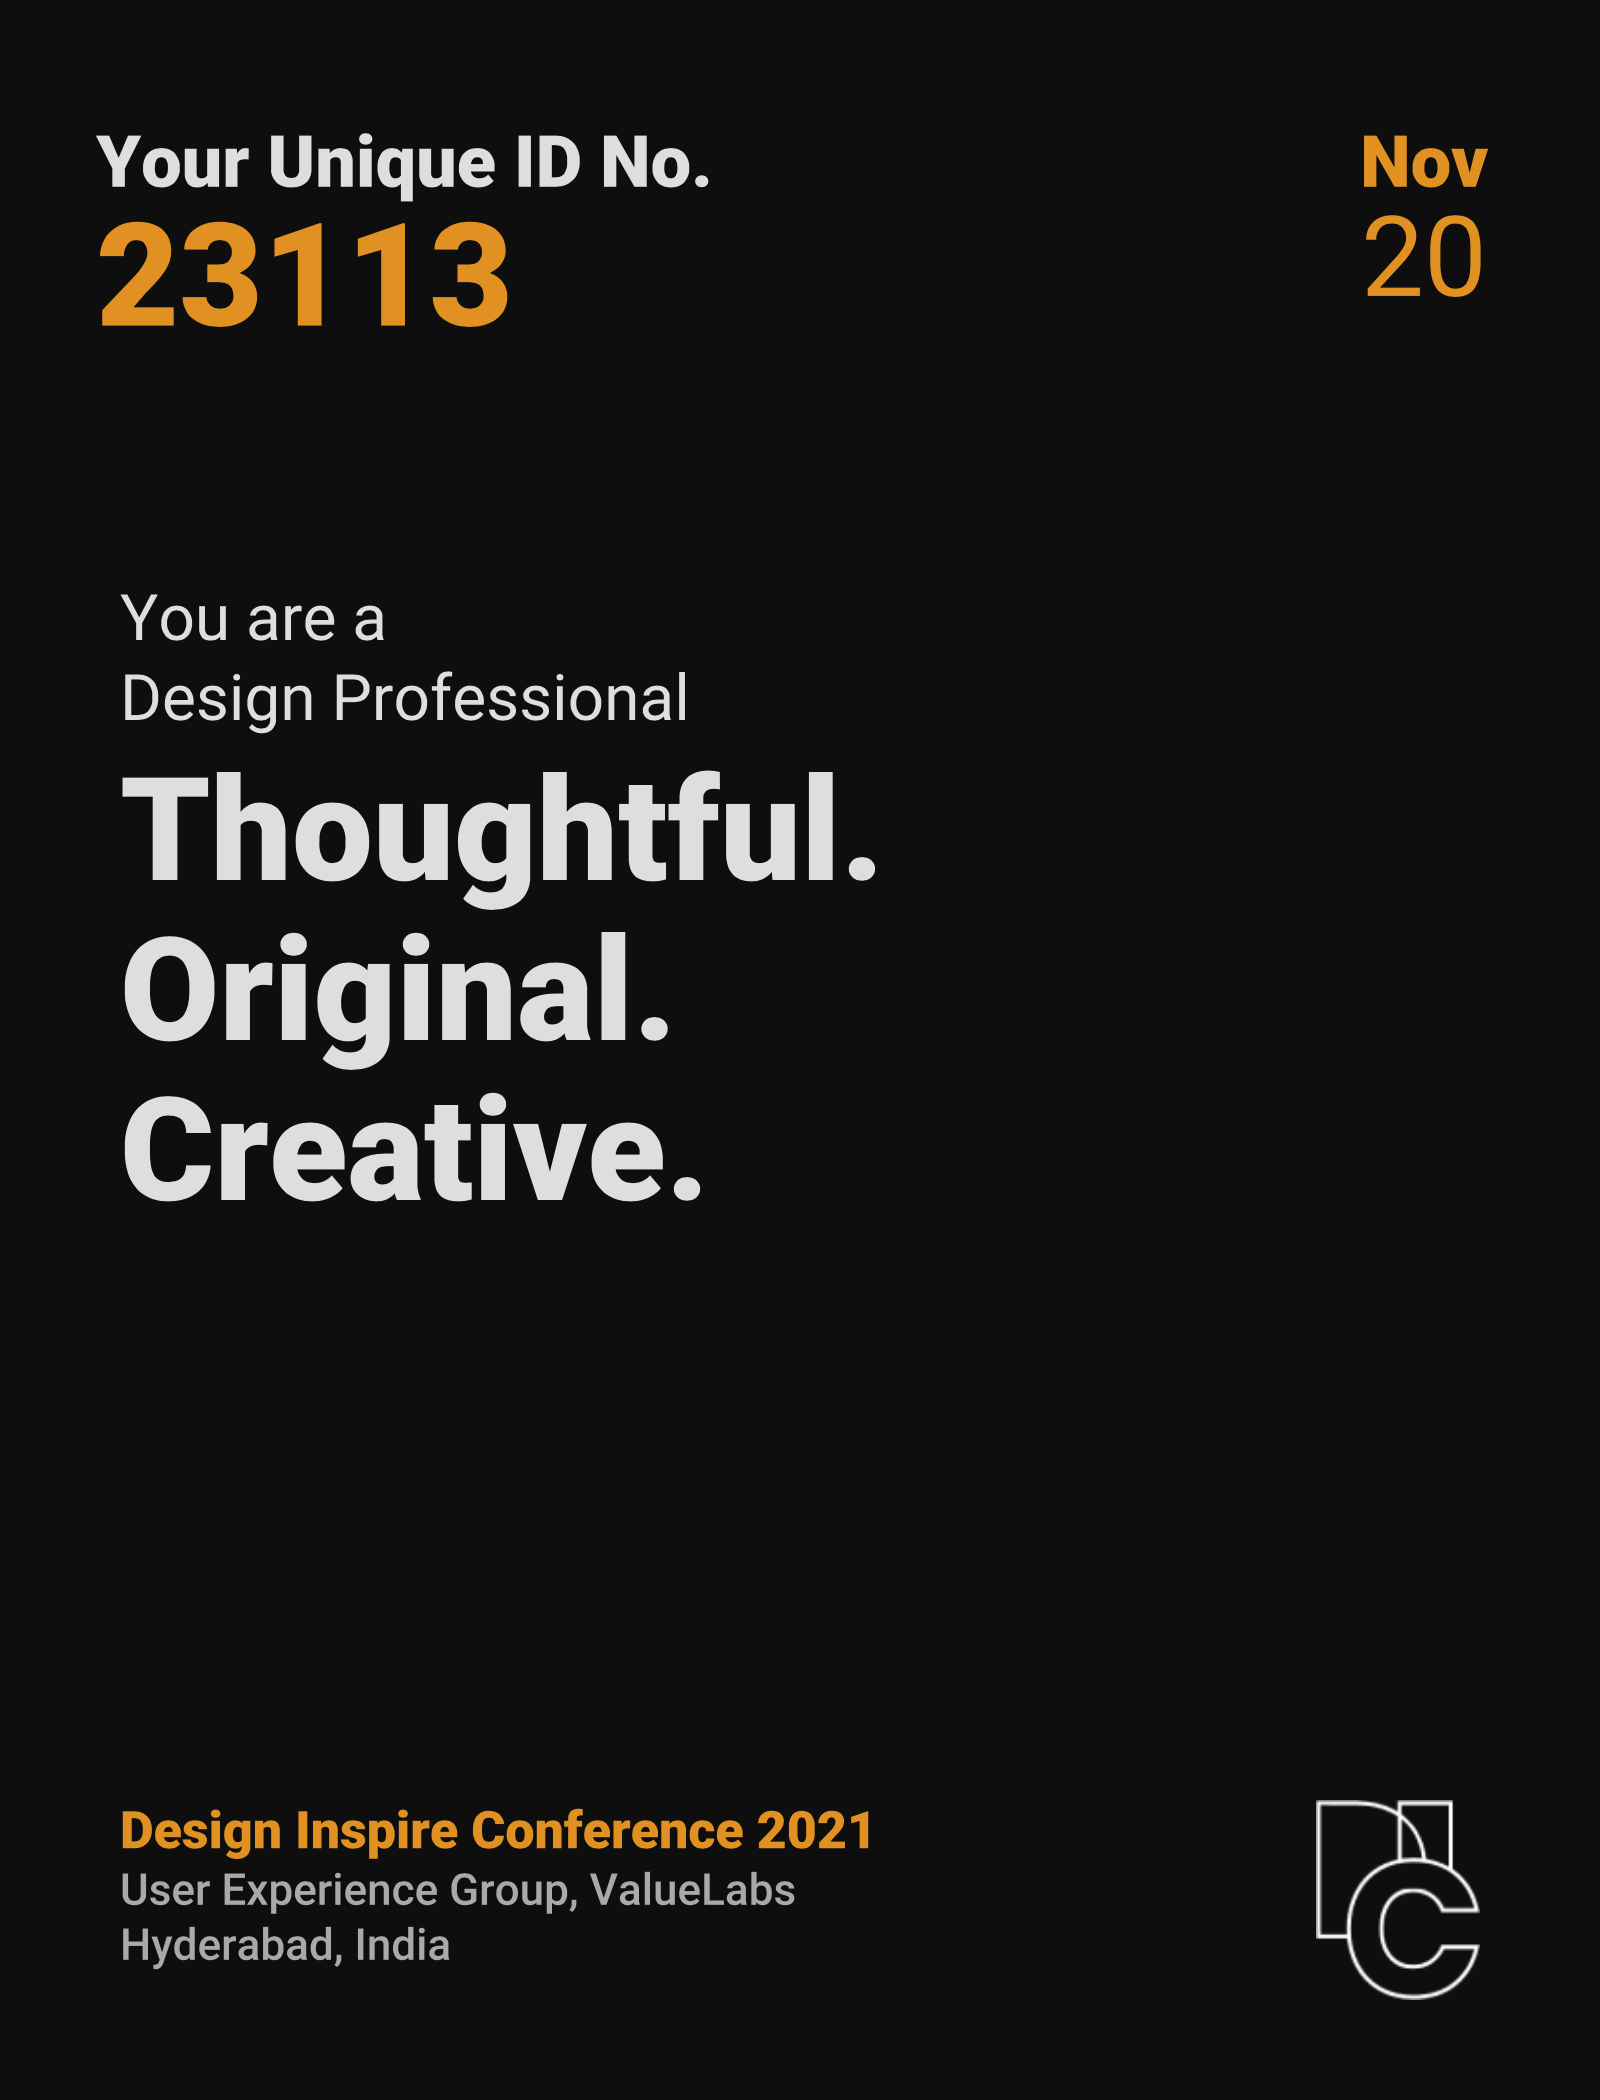
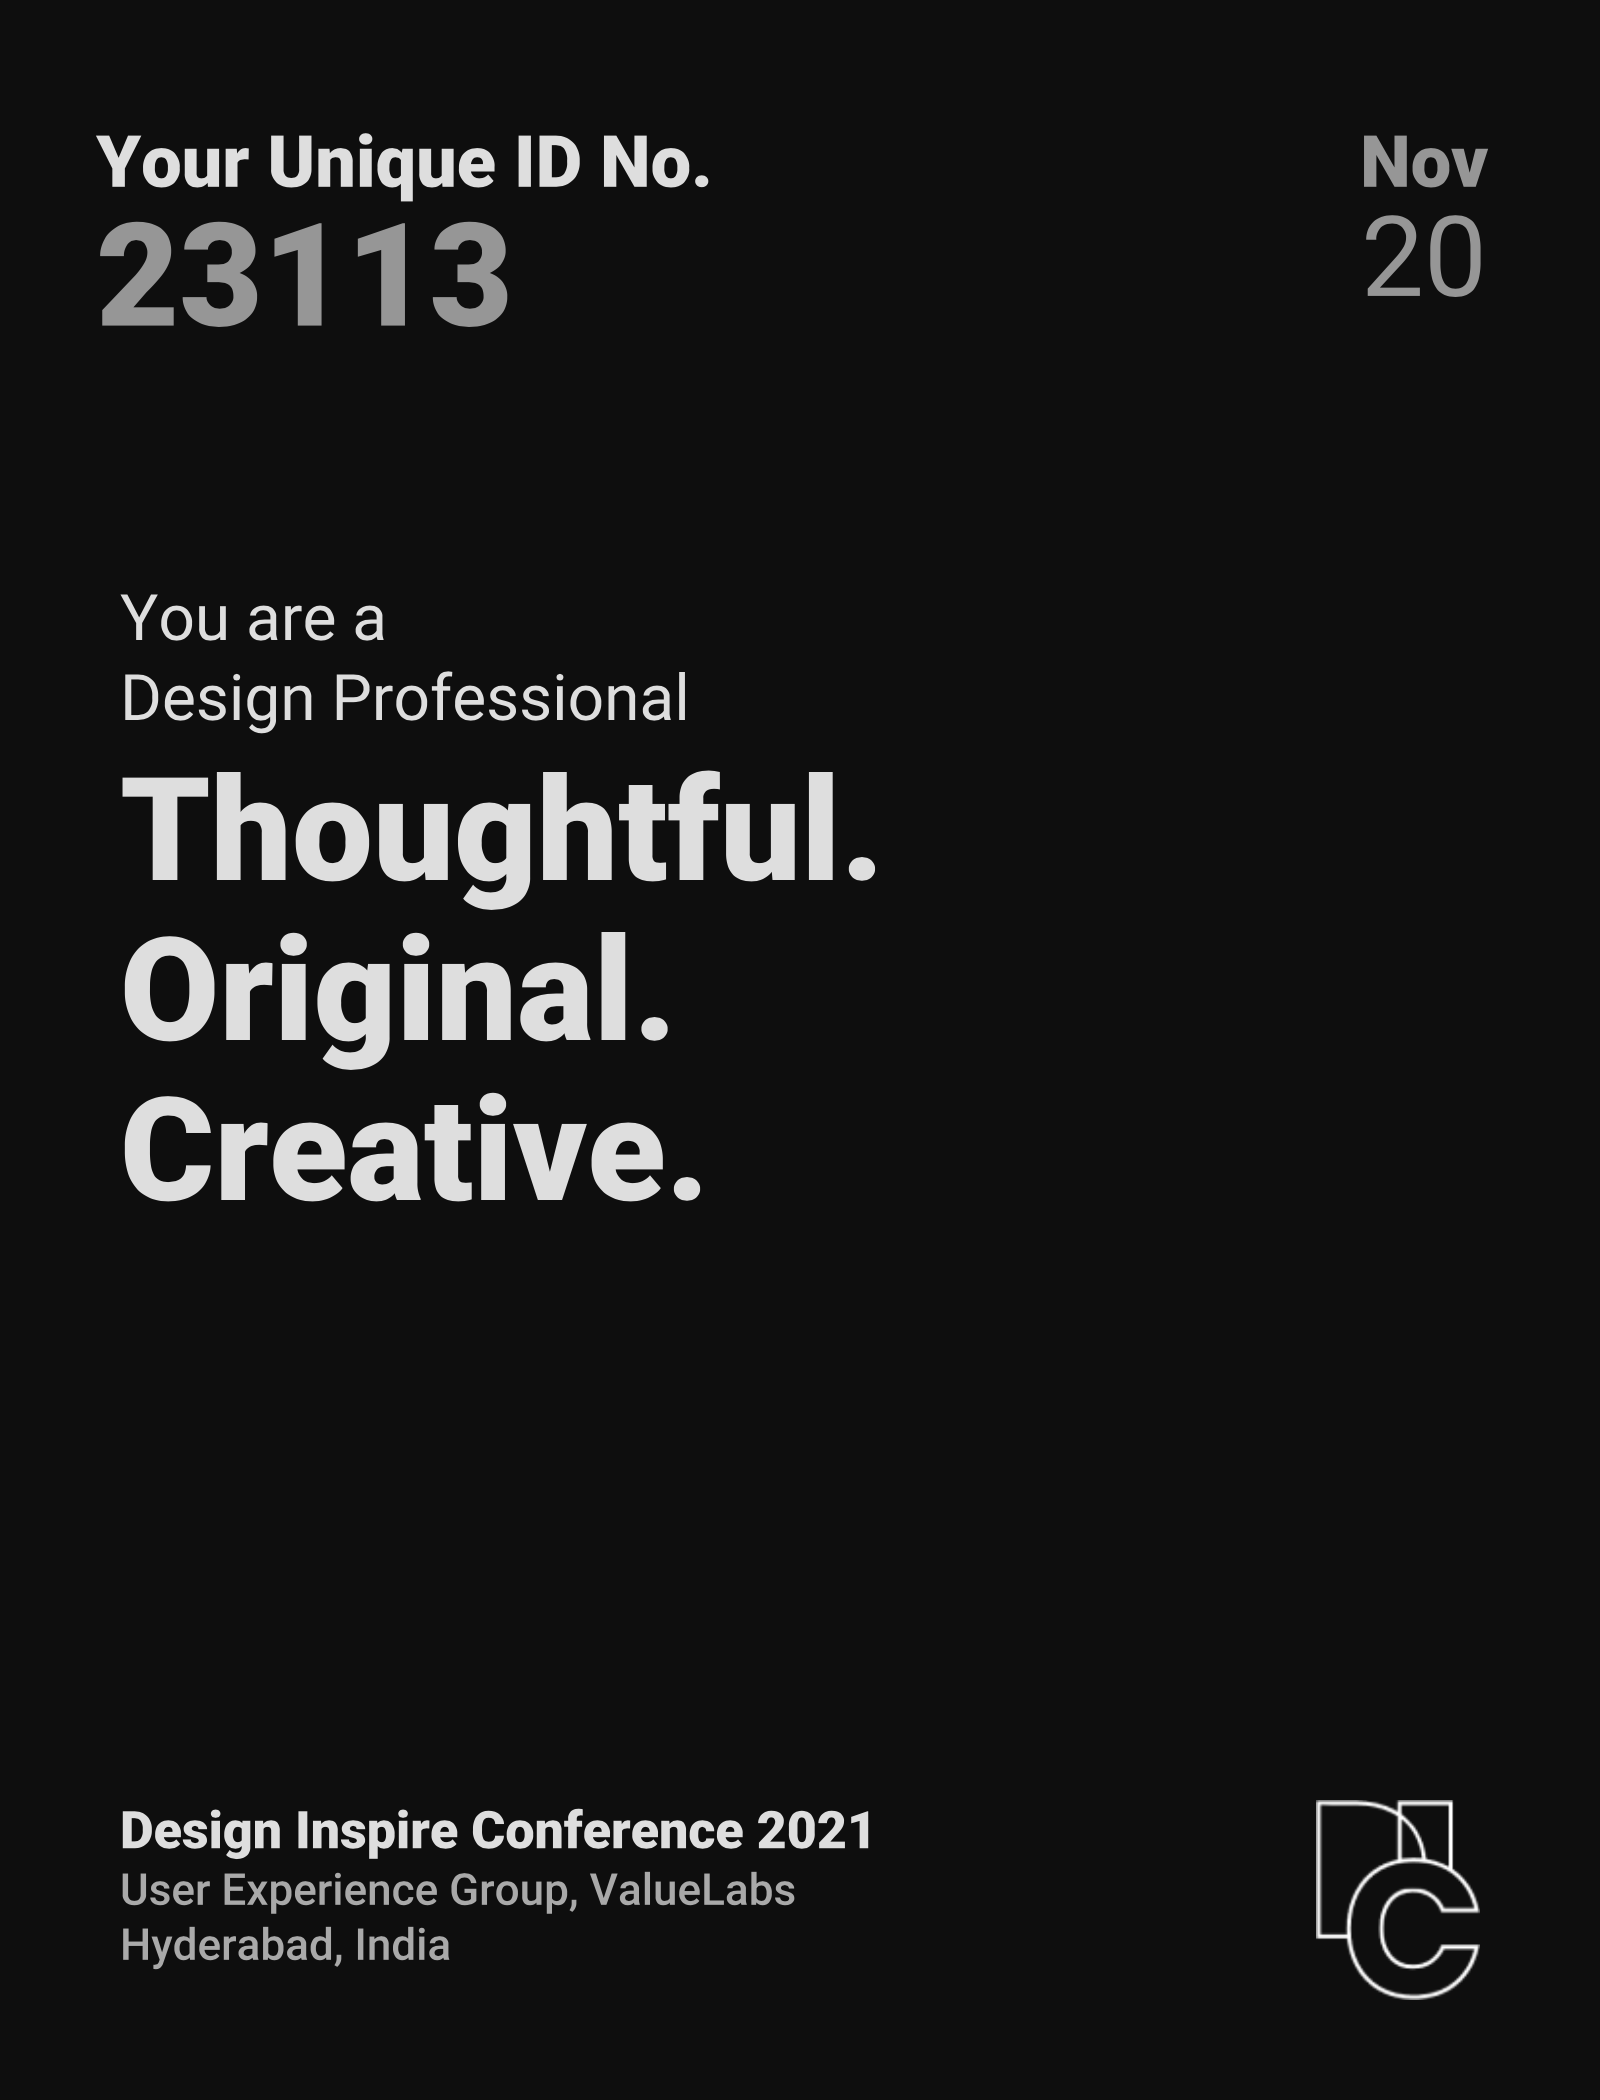
Update samples and colors

Changed region(s): [[0.0625, 0.0929, 0.3125, 0.1548], [0.0625, 0.8667, 0.5312, 0.8976], [0.8438, 0.0619, 0.9375, 0.1548]]

diff --git a/back.js b/back.js
@@ -27,9 +27,7 @@ function setup() {
     // color("#37b5ac"), // kepel
     // color("#b16acf"), // purple
   ];
-}
 
-function draw() {
   background(14);
   
   populateDate();
@@ -44,7 +42,7 @@ function populateDate() {
   push();
   textAlign(CENTER, TOP);
   noStroke();
-  let fontColor = color("#29b85d");//color("#DEDEDE");
+  let fontColor = color("#969696");//color("#DEDEDE");
   
   textFont(roboto_bl);
   textSize(36);
@@ -90,7 +88,7 @@ function populateIDNumber() {
   
   textFont(roboto_bl);
   textSize(72);
-  fill(color("#29b85d"));
+  fill(color("#969696"));
   text("23113", 48, 60 + 36);
   pop();
 }
@@ -99,7 +97,7 @@ function popoulateUXGDetails() {
   push();
   textAlign(LEFT, TOP);
   noStroke();
-  let fontColor = color("#29b85d"); //color("#DEDEDE");
+  let fontColor = color("#DEDEDE");
   
   textFont(roboto_bl);
   textSize(26);

diff --git a/front.js b/front.js
@@ -26,15 +26,10 @@ function setup() {
 
   diColors = [
     color("#E3C766"), // yellow
-    color("#e19121"), // orange
+    // color("#e19121"), // orange
     color("#d9707f"), // pink
-    // color("#c93b3b"), // red
-
-    // color("#29b85d"), // green
-    // color("#37b5ac"), // kepel
+    color("#37b5ac"), // kepel
     // color("#b16acf"), // purple
-    // color("#5573f1"), // blue
-
     color("#dddddd"), // white
   ];
 

diff --git a/index.html b/index.html
@@ -5,9 +5,9 @@
 
   </head>
   <body>
-<!--     <script src="front.js"></script> -->
-<!--     <script src="back.js"></script> -->
-    <script src="zoom_bg.js"></script>
+    <script src="front.js"></script>
+    <!-- <script src="back.js"></script> -->
+    <!-- <script src="zoom_bg.js"></script> -->
     <script src="tile.js"></script>
   
 
